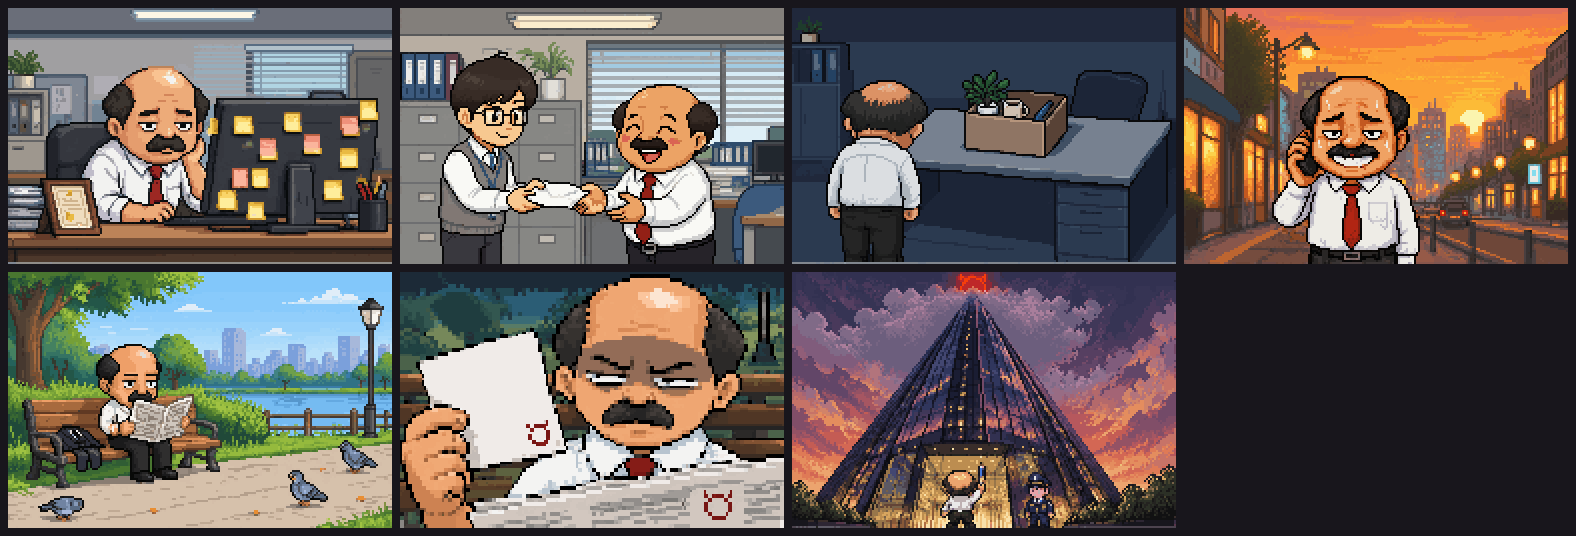
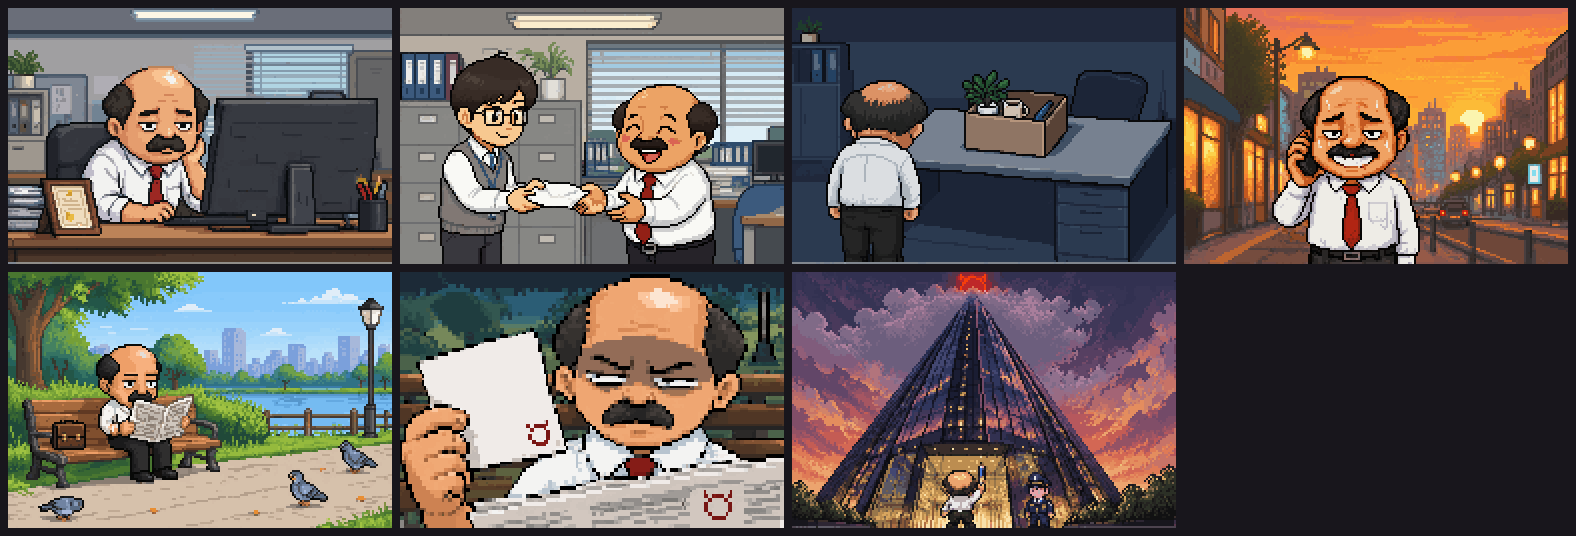
art: webtoon panels — prologue fixes, episodes 0.5 to 5 and the headhunter (approved)

Changed region(s): [[0.1244, 0.1791, 0.2487, 0.4179], [0.0311, 0.7761, 0.0622, 0.8955]]

diff --git a/art/README.md b/art/README.md
@@ -14,7 +14,7 @@ Scale up only by an integer factor with nearest-neighbour.
 | `park/old/` | The previous office-worker Park (68×68 frames, anchors, candidates, previews). Kept for reference only. `park/old/attack_v3/` is the earlier hand-built attack and `park/old/attack_v4/` the PixelLab attack that came before the current one. |
 | `park/preview/` | Composited previews and contact sheets (see Previews). |
 | `parts/suits/s{set}_{slot}.png` | 36 costume parts: 6 sets × 6 slots, each on a 64×64 transparent canvas drawn on idle frame 0. |
-| `parts/suits/strips/s{set}_{slot}_{anim}.png` | The same parts redrawn for every frame of idle, walk and attack (108 strips). **The 36 `_attack` strips still belong to an earlier attack and do not fit the current `park/attack_*` frames** (see Known issues). |
+| `parts/suits/strips/s{set}_{slot}_{anim}.png` | The same parts redrawn for every frame of idle, walk and attack (108 strips). The 36 `_attack` strips were redone for the current attack by inpainting each set onto the bare attack frames (see How it was made); the previous ones are in `parts/old_suits_v2/attack_v4_strips/`. |
 | `parts/suits/parts.json` | Slot, anchor, offset, layer, bbox and strip paths of every part. |
 | `park/fx/head_shine.png`, `park/fx/head_shine.json` | Animated glint on Park's bald crown (6 frames, 11×11 each). |
 | `parts/old_suits/` | The first office-suit parts. They fit only `park/old/` and are kept for reference. |
@@ -26,7 +26,7 @@ Scale up only by an integer factor with nearest-neighbour.
 | `icons/*.png` | UI icons, 32×32, plus 16×16 small icons named `*_s.png`. `icons/_sheet.png`, `_sheet_ui.png`, `_sheet_small.png` and `_sheet_aura_legend.png` are contact sheets. |
 | `vx/*.png` | 13 VX shop product images, 512×512 (128×128 pixel art scaled ×4 nearest-neighbour). The 128 px sources are in `vx/src/`, and `vx/_sheet.png` shows all of them. |
 | `icons/extra/`, `parts/gear/extra/` | Unused extras left over from generation. They can be deleted. |
-| `story/prologue_1..7.png` | The 7 webtoon prologue panels, 192×128, opaque, no text. `story/_sheet_prologue.png` shows them ×2 in reading order; `story/src/` holds the raw picks, unused alternates and the office-Park reference. See Story panels. |
+| `story/prologue_1..7.png`, `story/ep0_1..4.png`, `story/ep1_1..6.png`, `story/hunter_1..4.png`, `story/ep2_1..4.png`, `story/ep3_1..4.png`, `story/ep4_1..4.png`, `story/ep5_1..5.png` | Webtoon panels (prologue, episodes 0.5–5, headhunter), 192×128, opaque, no text. `story/_sheet_prologue.png`, `_sheet_ep0.png`, `_sheet_ep1.png`, `_sheet_hunter.png`, `_sheet_ep2.png`, `_sheet_ep3.png`, `_sheet_ep4.png` and `_sheet_ep5.png` show them ×2 in reading order; `story/src/` holds the raw picks, unused alternates and the character references. See Story panels. |
 
 ## Park
 
@@ -169,7 +169,8 @@ No image contains text.
   - `mixB` = helmet 2, armor 5, cape 6, gloves 3, boots 4, accessory 1, holding a laptop.
 - `park_strips_x3.png`: bare Park idle/walk/attack, then set 2 holding a pen.
 - `attack_bare_gear_x1.png` / `_x4.png`: the current attack, bare, with an item drawn on `hand` at `handAngle` (rows: pen, putter, keyboard, briefcase), following `gearAboveHelmet`.
-- `attack_s2_spritegen_registration_test_x4.png`: the set 2 registration test described in Known issues.
+- `attack_costumes_inpaint_x4.png` (1×: `attack_costumes_inpaint_x1.png`): the current attack with the new costume strips, one row per outfit: bare (pen), sets 1–6 fully worn (each holding a different item), then `mixA` (keyboard) and `mixB` (laptop). Items are drawn on `hand` at `handAngle` with `gearAboveHelmet` layering.
+- `attack_s2_spritegen_registration_test_x4.png`: the set 2 sprite-gen registration test (why the costume attack was inpainted instead; see Known issues).
 - Every other preview that shows attack frames (`anim_*`, `park_strips_x3.png`, `attack_bare_pen_*`, `hand_check_x4.png`) was made with an earlier attack and is out of date.
 - `attack_bare_pen_x1.png` / `_x4.png`: the 8-frame slash holding the pen. `hand_check_x4.png`: every idle/walk/attack frame with the pen and a red dot on `hand`, showing that it is always the same near hand.
 - `head_shine_x4.png`: the glint playing on bare Park's idle loop. `head_shine_strip_x8.png` shows the 6 shine cells.
@@ -192,11 +193,32 @@ No image contains text.
      - Boots and gloves are rebuilt on each frame's real legs and hands.
      - Capes hang from the back of the collar, sway in walk and attack, and are tucked under the body so there are no gaps.
   4. Accessories are small hand-placed pixel items on the chest or belt.
+  5. **Attack strips (current):** each set was inpainted onto the 8 bare attack frames with PixelLab Pro Flash. Pixel registration is exact: outside the mask every pixel is the bare frame's own pixel.
+     - **Mask:** the body dilated by 3 px, plus a band above the head (plumes, crowns) and a band behind the back (capes). The face (eye, nose, moustache, cheek) was left out of the mask, so it stays pixel-exact.
+     - **Reference:** the set's dressed idle frame 0 sat in the same image, in one cell of a 2×2 sheet with three attack frames (set 1: a 3×3 sheet with all eight).
+     - **Extra passes:** set 1 needed a second pass over the head only, because the first pass left the scalp bare. For set 2, frame 3 lost its raised arm and got one repair pass with the bare arm pasted back as a guide.
+     - **Slot split:** each dressed frame was diffed against the bare frame and assigned by region, as for idle:
+       - pixels above the neck → helmet;
+       - the fist plus 1 px → gloves;
+       - colours closest to the set's accessory palette on the chest or belt → accessory (grown into touching off-ramp colours);
+       - new pixels behind the back → cape;
+       - below y 49 → boots;
+       - everything else → armor.
+     - **Skipped pixels:** where both the bare and the dressed pixel are skin, nothing is stored, so Park's own face and hand show.
+     - **Gap fill:** where the dressed silhouette came out 1–3 px narrower than the bare body (mostly outline pixels at the belly, back and face edge), the gap was filled automatically from the neighbouring dressed pixels: the darkest neighbour on the silhouette edge, otherwise a light neighbour. This keeps bare pixels from showing through. It was done by script and was not hand-drawn.
 - **Office items, backgrounds and icons:** unchanged from the previous delivery, except for the new `scale` data and the scaled copies.
 
 ## Generation budget
 
+- **Office-object monster redo (PixelLab):** **40 generations**: 2 × 16-candidate `create_1_direction_object` batches at 64×64 (20 each). Another session drew webtoon panels on the same account at the same time, so the balance drop over that period is larger.
 - **Aura / legend icons, speech bubble, red dot (PixelLab):** **43 generations**: 2 × 64-candidate batches (20 each; 32 px icons, 24 px UI), 2 × Pixen 16×16 red dots and 1 × Pixen edit test that tried to add a glow to the helmet (rejected: it only added noise).
+- **Costume attack strips (PixelLab Pro Flash inpaint):**
+  - 22 calls in total:
+    - 2 at 192×192 (set 1, both passes);
+    - 18 at 128×128 (three per set for sets 2–6, plus three set 3 attempts that the content filter blocked);
+    - 1 repair at 128×64;
+    - 1 call rejected because its upload was truncated.
+  - The balance went from 388 to 146 during this work. That figure includes at least 8 jobs from another session sharing the account, so it overstates the cost. By call count, this work used roughly 160–200 generations.
 - **Attack remake, small icons, VX images:**
   - sprite-gen (Codex): 4 row generations (2 bare attack rows, 2 set 2 dressing tests).
   - PixelLab: the balance went from 512 to 388, so **124 generations** were used: 2 × 64-candidate icon batches (20 each) and 14 × Pro Flash 128×128 images (6 each, one of them a size test).
@@ -218,8 +240,12 @@ No image contains text.
 - Park's hands are tiny in idle and walk, so gloves read mostly in the attack frames.
 - The ranger hood (set 4) was drawn together with its cloak. Without the set 4 cape the hood still works, but its shoulder drape is gone.
 - The swinging arm is short (chibi proportions), so in the overhead frames the fist stays at head height. The item itself provides the overhead reach.
-- **Costume attack strips are out of date.** `parts/suits/strips/s*_*_attack.png` were fitted to an earlier attack. They do not line up with the current sprite-gen attack, so a worn costume looks wrong during the attack until they are remade.
-  - A test dressed set 2 with sprite-gen: the dressed idle-0 was the base and the bare attack row was attached as a motion reference. The poses follow closely, but the dressed figure comes out about 4 px taller and the limbs differ by 1–3 px. After the best shift, 8–30 bare-body pixels per frame still stick out from under the dressed silhouette. A slot split by diff against the bare frame therefore does not register. See `park/preview/attack_s2_spritegen_registration_test_x4.png` (top: bare, bottom: dressed).
+- Costume attack strips:
+  - **Why not sprite-gen:** a sprite-gen test dressed set 2 from its idle 0 with the bare attack row as a motion reference. The dressed figure came out about 4 px taller and its limbs were 1–3 px off, so a split by diff would not register (`park/preview/attack_s2_spritegen_registration_test_x4.png`). The strips were therefore made by inpainting instead.
+  - **Gap fill:** the inpainted silhouettes were sometimes narrower than the bare body. Per frame, 0–114 such pixels were filled automatically from neighbouring dressed pixels; most were single outline pixels. The worst frames are set 3 frame 2, set 5 frames 1 and 3, and set 4 frames 3 and 6, where the front outline is a little thicker.
+  - **Missing capes:** set 1 frame 1 has no cape, and in a few frames the cape is narrower than at idle.
+  - **Raised arms:** on frames 1–3 (raised arm) the armour sleeve sometimes covers less of the upper arm than at idle. The tan tunic sleeve then shows under the gauntlet; set 1 is sleeveless by design.
+  - **Accessories:** the slot was found by colour, so on some frames part of a lanyard, chain or mug is in the armor layer. If you mix outfits, the accessory can be incomplete on those frames.
 - Frame 1 of the attack (`anticipation`) turns the face slightly toward the viewer, so the eye reads a little wider than in idle.
 - Office items are drawn in a 24 px box. Use `scale` or `scaledFile` to keep bulky ones small.
 
@@ -260,6 +286,29 @@ No image contains text.
 - Previews (`monsters/preview/`):
   - `battle_{department}_x1.png` / `_x3.png`: Park next to each monster on its department background;
   - `anims_{department}_x2.png`: every idle, hurt and death frame.
+- `_sheet.png`: all 36 monsters on idle frame 0 at ×2, one row per department (normal and spare, then team leader, then executive).
+
+### Office-object redo (6 normal monsters)
+
+Six normal monsters did not read as office monsters, so they were redrawn with the office object as the first read. The ids and file names are unchanged. The old strips are kept in `monsters/old/`.
+
+| id | Name | Flying | Picture | Body (w×h) |
+|---|---|---|---|---|
+| `stapler_bat` | 스테이플러 박쥐 | yes | a black desk stapler whose open jaw has staple teeth, with purple bat wings | 41×32 |
+| `clip_rat` | 클립 쥐 | no | a grey rat whose body and tail are bent silver paperclip wire, with a big paperclip tail loop | 46×29 |
+| `phone_imp` | 전화 임프 | no | a red imp with a headset, clutching a huge beige desk-phone receiver, with a coiled beige phone-cord tail | 36×32 |
+| `card_pixie` | 명함 종이학 (renamed from 명함 요정) | yes | a paper crane folded from white business cards with grey print lines and blue logo corners | 41×32 |
+| `redtape_worm` | 레드테이프 웜 | no | a grey tape-dispenser head with cutter teeth and a tape roll, and a red tape body unrolling behind it | 46×29 |
+| `card_bat` | 법인카드 박쥐 | yes | a black bat whose wings are a gold card and a black card, with a gold chip on its belly | 46×27 |
+
+- **Generation:** PixelLab `create_1_direction_object` (sidescroller view), two batches of 16 candidates at 64×64, one per-item description each. The style references were `keyboard_mimic` and `calc_crab` idle frame 0. The best candidate of each was kept.
+- **Downscale:** the candidate was cropped, scaled ×4 nearest-neighbour, and reduced with the same kCentroid downscaler (`sprite-gen`) to its body size. Alpha was made binary, the colours were reduced to at most 26 (median cut), and the darkest colours were snapped to `#0C0B0A`. Each sprite sits centred on the 64×64 canvas with its feet on y 56, or on y 50 for flyers (`hoverPx` 6).
+- **Strips:** frame edits of that sprite, measured from the existing strips:
+  - idle: ground monsters are frame 0, 1 px wider and 1 px shorter, frame 0, then 1 px narrower and 1 px taller (bottom-anchored); flyers bob 0, −1, −2, −1 px.
+  - hurt: 75 % toward white with a 3 px recoil to the right, then a 35 % blend toward red (230, 38, 38) with a 1 px recoil. Outline pixels stay `#0C0B0A`.
+  - death: frame 0 is the sprite 85 % white, 2 px wider and squashed to 85 % height. Frame 1 is the sprite 55 % toward light grey, 110 % wide and 52 % high, with the same small puff and sparkles as the other monsters of that body width. Frames 2 and 3 are the shared big cloud and fading puffs of a monster of the same width, moved to the new body centre. The widths were chosen (36, 41, 46) so that these puffs exist at exactly that size.
+- `monsters.json`: only `name` (card_pixie), `bodyHeight`, `bodyWidth` and `hpBarAnchor` changed for these six; `flying`, `hoverPx` and the animation timings are as before.
+- `sticky_moth` stays in the files and in the 총무팀 previews, but it is not in 총무팀's `spareNormal`.
 
 ## UI icons (second batch, `icons/`)
 
@@ -344,11 +393,11 @@ All UI frames were generated with PixelLab (Pixen) at native size and cropped. `
 
   | File | Panel |
   |---|---|
-  | `prologue_1` | Park at his desk in 총무부: monitor covered in sticky notes, framed certificate, fluorescent glint on his head |
+  | `prologue_1` | Park at his desk in 총무부: the back of his monitor (plain, no notes), framed certificate, fluorescent glint on his head |
   | `prologue_2` | An HR employee in a vest and glasses hands Park a white envelope; Park laughs naively |
   | `prologue_3` | Night office: an empty desk with one box (plant, mug, pen); Park from behind, slumped |
   | `prologue_4` | Evening street at sunset: Park on the phone, sweating, forcing a smile |
-  | `prologue_5` | Park bench by a pond: Park reads the newspaper, his jacket folded beside him, pigeons |
+  | `prologue_5` | Park bench by a pond: Park reads the newspaper, a small brown briefcase beside him, pigeons |
   | `prologue_6` | Close-up: Park's hand holds the turned-over envelope; a small red horned-circle emblem on it matches the one on the newspaper; his eyes narrow |
   | `prologue_7` | A tower piercing the clouds with the red horned emblem on top; tiny Park from behind raises one pen at the entrance, a security guard beside him |
 
@@ -358,7 +407,108 @@ All UI frames were generated with PixelLab (Pixen) at native size and cropped. `
   3. Cleanup: near-identical colours (RGB distance ≤ 6) merged, and faint lone specks inside flat areas replaced by their surroundings (4 to 32 per panel). Nothing was redrawn. Panels keep 36–86 colours each; they share the reference's outline and skin and shirt colours, but each scene keeps its own lighting (office, night, sunset, day, dusk).
   4. Raw picks are `story/src/prologue_N_raw_*.png`. Unused alternates: `alt_p2a` (plain background), `alt_p6a` (face cropped above the eyes, no bald head), `alt_p7a` (squat tower that does not reach the clouds).
 - Credits: **70 generations** (1 × Pro Flash edit at 64×64 = 5, 10 × Pro Flash 192×128 = 6 each, 1 × Pro Flash 32×32 = 5 for the story icon). Panels 2, 6 and 7 were generated twice.
+- Fixes after review (PixelLab Pro Flash inpaint on a crop, masked pixels only; every other pixel is unchanged). The originals are `story/src/prologue_1_v1.png` and `prologue_5_v1.png`; the inpaint outputs are `story/src/prologue_*_fix_inpaint*.png`.
+  - `prologue_1`: the sticky notes were stuck on the back of the monitor. Two inpaints (96×76 crop over the notes, then a 40×64 crop over two leftovers) made it a plain dark monitor back. 1,434 pixels changed; 8 leftover yellow pixels (one speck and a small light on the base) were set to the neighbouring dark grey.
+  - `prologue_5`: the dark clothes pile on the bench read as pulled-off trousers. One inpaint (64×64 crop, 28×28 mask) replaced it with a small closed brown briefcase standing on the bench. 493 pixels changed.
 - Known issues: in `prologue_7` the emblem at the top of the tower is cut by the top edge, and the clouds there are busy, so text reads better at the bottom-left or over a dark box. In `prologue_3` Park is seen from behind with more side hair than usual. `prologue_6` is a larger close-up and looks coarser than the other panels.
+
+### Episode 0.5 (`ep0_*`)
+
+- "0.5화 — 월급만큼만 (3층)", 4 panels, same format. Setting: an early floor in the style of the 총무팀 office (grey filing cabinets, water cooler, boxes, checkered floor) with a faint purple dungeon glow at the edges.
+
+  | File | Panel |
+  |---|---|
+  | `ep0_1` | Park in a tense stance, sweating, aims his pen at a big 서류 슬라임 (crumpled documents, binder clip, angry face) |
+  | `ep0_2` | The slime sits at a desk staring at a small monitor with bored half-closed eyes; Park stands by, confused |
+  | `ep0_3` | Close-up: Park's arm (white sleeve) bonks the slime with his pen, with an impact star; the slime's flat face doesn't care, its eyes rolled up to the wall clock |
+  | `ep0_4` | Wide shot of the open-plan floor: paper slimes, a stapler bat and a clip rat each idle at their spot, zoned out; Park in the middle, deadpan |
+
+- Monster references: frame 0 of `monsters/paper_slime_idle.png` (and of `stapler_bat_idle.png` and `clip_rat_idle.png`, described in the prompt for `ep0_4`). The style image was `park_office_ref.png` next to the paper slime frame, cropped and reduced to 24 colours so the image stays small enough to send.
+- Cleanup as before (colours merged, 12–75 faint specks per panel). Nothing was redrawn. Raw picks: `story/src/ep0_N_raw_*.png`. Rejected for `ep0_3`: `alt_ep0_3_a` (both eyes squeezed shut, so the clock gag is lost) and `alt_ep0_3_b` (the slime's face and the hit are too small to read).
+- Credits: **36 generations** (6 Pro Flash panels at 192×128, 6 each; `ep0_3` was generated three times). Two calls were rejected before generating because the reference image was cut off in transit, so they cost nothing.
+- Known issues: `ep0_3` shows only Park's arm, not his face. The wall clock in `ep0_3` has tick marks but no hands. In `ep0_4` the stapler bat and the clip rat come from the prompt only, so they look a little different from their game sprites.
+
+### Episode 1 and the headhunter (`ep1_*`, `hunter_*`)
+
+- Episode "1화 — 상무님은 부재중 (100층)" (6 panels) and "1화 뒤 — 헤드헌터 (100층)" (4 panels), same format as the prologue.
+
+  | File | Panel |
+  |---|---|
+  | `ep1_1` | Floor 100 boss room (an executive office turned dungeon: wood panels, filing cabinets, green torches, purple runes); a huge shadow with red eyes looms over the desk; tiny Park from behind |
+  | `ep1_2` | Park trembles, sweat flying, and points his pen at the shadow falling across the room |
+  | `ep1_3` | Reveal: a flat cardboard standee of a stern grey-haired executive with a blank scribbled sign on a string; a lit phone on the floor behind it; Park stares, blank-faced |
+  | `ep1_4` | Park leaps in and smacks the standee with his pen: impact star, action lines, the standee folds back, the phone flies |
+  | `ep1_5` | Beside a photocopier in a cobwebbed corner, gaunt 김인턴 crawls out on all fours; Park looks down in surprise |
+  | `ep1_6` | 김인턴 with starry hopeful eyes and clasped hands; Park looks away with a sweat drop and a guilty smile (his name badge is blank) |
+  | `hunter_1` | Concrete stairwell landing: 헤드헌터 냥 (grey tabby in sunglasses and a navy suit) leans on the rail and holds out a blank business card; Park, from behind, stops on the stairs |
+  | `hunter_2` | Close-up: Park, jaw dropped, eyes bulging, an anger mark on his head, pointing at himself |
+  | `hunter_3` | The cat spreads a hand of exam tickets (cream cards, each with a red stamp, like `icons/ticket.png`) like playing cards; Park leans in |
+  | `hunter_4` | Park holds a few tickets and studies them with a deadly serious frown |
+
+- Character references (64×64, transparent, in `story/src/`), made first so they can be reused in later episodes:
+  - `ref_kim_intern.png`: 김인턴, gaunt, messy black hair, eye bags, wrinkled light blue shirt, lanyard ID (Pro Flash with `park_office_ref.png` as the style image).
+  - `ref_headhunter_cat.png`: 헤드헌터 냥, grey tabby standing upright, black sunglasses, navy suit, white shirt, thin black tie (Pro Flash, same style image).
+  - `ref_executive_standee.png`: the stern grey-haired executive on the standee (Pixen, 1 generation). It is a plain figure, not a cardboard cutout; the panels draw the cutout from the prompt.
+- Panels with two characters used a composite style image: `park_office_ref.png` placed next to the other reference (and `icons/ticket.png` for `hunter_3` and `hunter_4`), labelled "left: Park, right: …". Single-Park panels used the Park reference alone.
+- Cleanup as for the prologue (colours merged, 13–47 faint specks per panel). In `hunter_1` the green emergency sign had letter-like white marks; those 46 pixels were painted the sign's green. Nothing else was redrawn.
+- Raw picks: `story/src/{ep1,hunter}_N_raw_*.png`. Rejected: `alt_ep1_2a` (Park in a jacket, and a horned demon sat at the desk, which spoils the cardboard reveal) and `alt_hunter_3a` (the tickets read as a paper hand fan).
+- Credits: **98 generations** in this batch: 3 references (5 + 5 + 1), 12 Pro Flash panels at 192×128 (6 each; `ep1_2` and `hunter_3` were generated twice) and 3 Pro Flash inpaints for the prologue fixes (5 each).
+- Known issues: `ep1_6` is lit like a plain beige office rather than the dark dungeon room, so it differs from `ep1_1`–`ep1_5`. In `ep1_1` and `hunter_1` Park is small and seen from behind. In `ep1_3` Park is cut by the left edge.
+
+### Episodes 2 and 3 (`ep2_*`, `ep3_*`)
+
+- "2화 — 네트워크 마케팅 아닙니다 (300층)" and "3화 — 내용증명 (600층)", 4 panels each, same format as the prologue. `story/_sheet_ep2.png` and `_sheet_ep3.png` show them ×2 in reading order (same layout as `_sheet_prologue.png`).
+
+  | File | Panel |
+  |---|---|
+  | `ep2_1` | 영업팀 floor (desks, rising bar-chart posters): Park in front of a glowing gear vending machine (giant stapler, pen, mug), his face and head drained pale blue-white, jaw dropped |
+  | `ep2_2` | Park, arms crossed and unimpressed, as 박주임 bursts in with a big sparkling showman pose |
+  | `ep2_3` | Close-up: 박주임 grins and waves a fan of green banknotes, bills fluttering, his gold watch glinting |
+  | `ep2_4` | Park and 박주임 arm in arm, grinning, 박주임 giving a thumbs up; 김인턴 peeks from behind a partition with narrowed, suspicious eyes |
+  | `ep3_1` | Floor 600 courtroom (judge's bench, candles, purple gloom): the 법무 상무 lich in wig and robe leans over the bench with its gavel; small Park at the bottom left, sweating, gripping his pen |
+  | `ep3_2` | A sheet of paper slaps flat onto the lich's face; motion lines, the gavel flies up, the lich flails (the sheet has only grey scribble lines) |
+  | `ep3_3` | Close-up: 최대리 pushes up her glasses (white glint hides her eyes), a folder and a fan of papers in her other arm, papers drifting |
+  | `ep3_4` | Paper blades shred the lich and the red health bar above it; in front, Park with starry eyes and clasped hands, 최대리 cool with arms folded and eyes closed |
+
+- New character references (64×64, transparent, binary alpha, in `story/src/`), for later episodes:
+  - `ref_park_jumim.png`: 박주임, gelled swept-back black hair, big grin, shiny grey suit, dark tie, gold watch, a fan of green banknotes (Pro Flash, `park_office_ref.png` as the style image).
+  - `ref_choi_daeri.png`: 최대리, black chin-length bob, rectangular glasses, navy blazer and skirt, white blouse, a dark blue folder at her chest. Pro Flash with the same style image, then one Pro Flash text edit to add the folder (the first try had none; a second fresh try had the folder but a muddier face).
+  - The lich has no separate reference: the panels used `monsters/judge_lich_idle.png` frame 0 (80×80).
+- Style images: the same composite approach as episode 1. Each reference was cropped to its bounding box and placed side by side, bottom-aligned, 4 px apart: Park + 박주임 (`ep2_2`), Park + 박주임 + 김인턴 (`ep2_4`), Park + lich (`ep3_1`), Park + 최대리 + lich (`ep3_4`). Single-character panels used that character's reference alone. Prompts repeat the same description of Park.
+- Two panels were fixed with a Pro Flash text edit of the whole 192×128 panel:
+  - `ep2_1`: the first roll had Park shocked but not pale, and a plain white strip across the top. The edit made his face pale and continued the ceiling. A second fresh roll (`src/alt_ep2_1b.png`) was paler but showed "$$$" on the price display and lost Park's tie.
+  - `ep2_4`: 김인턴 looked neutral; the edit gave him the suspicious squint.
+- Cleanup as for the prologue (colours merged at RGB distance ≤ 6, 0–36 faint specks per panel; 29–79 colours per panel). `ep3_2` and `ep3_4` came back with a flat grey bottom row (a grid-recovery artefact), which was replaced by a copy of the row above. Nothing was redrawn.
+- Raw picks: `story/src/{ep2,ep3}_N_raw_*.png`. Rejected: `alt_ep2_1b` (see above) and `alt_ep3_4a` (Park and 최대리 tiny at the left, expressions hard to read).
+- Credits: **92 generations**: 박주임 reference 5; 최대리 reference 15 (2 Pro Flash 64×64 creates and 1 edit, 5 each); 10 Pro Flash panels at 192×128 (6 each; `ep2_1` and `ep3_4` rolled twice); 2 Pro Flash edits at 192×128 (6 each).
+- Known issues: `ep3_3` is a large close-up with longer, less chibi proportions than the 최대리 reference, like `prologue_6`. In `ep3_1` Park is small and cut by the bottom edge. In `ep3_4` the lich is half hidden by the paper storm and reads mainly by its wig. The mug in `ep2_1` has a small blue logo mark (no letters).
+
+### Episodes 4 and 5 (`ep4_*`, `ep5_*`)
+
+- "4화 — 구독과 좋아요 (900층)" (4 panels) and "5화 — 김팀장 (1000층, 근속 25년 금배지)" (5 panels), same format as the prologue. `story/_sheet_ep4.png` shows episode 4 ×2 in one row (like `_sheet_ep2.png`); `_sheet_ep5.png` shows episode 5 ×2 in rows of three (like `_sheet_ep1.png`).
+
+  | File | Panel |
+  |---|---|
+  | `ep4_1` | Dungeon floor with torches and broken cubicles: Park punches a purple slime (impact star) while a selfie stick with a phone pokes in from the top right; Park glances at it, startled |
+  | `ep4_2` | 공주임 intro: winking idol pose, peace sign, selfie stick up, in front of a pink burst with stars and sparkles |
+  | `ep4_3` | Park, eyes squeezed shut and crying out, waves both hands at the camera, sweat drops and motion lines; the phone on its stick in the right foreground |
+  | `ep4_4` | Close-up of a phone held sideways by two hands in pink sleeves: on screen, a blushing Park with three buff icons above his head (red sword, blue shield, green up arrow) and a column of blank comment bubbles, each with only a small heart; hearts and sparkles float out of the screen |
+  | `ep5_1` | Floor 1000 boss room (red torches, banners with a horned emblem): a mountain of approval papers, folders and binders, sheets flying; on top, the boss with grey hair from behind; tiny Park from behind at the bottom left |
+  | `ep5_2` | Reveal on the paper piles: 김팀장 in his brown suit, glasses, pauldron, bracers and blank badge stands calm and weary; Park recoils, shocked |
+  | `ep5_3` | After the fight, papers all over the floor: 김팀장 sits on the floor, hair messed up, and holds out the small round gold pin on his palm; Park kneels and reaches for it |
+  | `ep5_4` | Chest-up Park, stern, the gold pin in his fist at his chest; 김팀장 sits at the right edge, looking away |
+  | `ep5_5` | From behind, Park and 김팀장 (hand on Park's shoulder) at the foot of a zigzag stone staircase that climbs into darkness, a few torches along it |
+
+- New character references (64×64, transparent, binary alpha, in `story/src/`), for later episodes:
+  - `ref_gong_jumim.png`: 공주임, long dark brown hair with a pink ribbon clip, bright open smile, pastel pink cardigan over a white blouse, grey skirt, blue ID lanyard, a selfie stick with a black phone.
+  - `ref_kim_teamjang.png`: 김팀장 as the floor 1000 boss, grey slicked-back hair, heavy jowls, black-framed glasses, rumpled brown suit and dark tie, a dull iron pauldron on one shoulder and iron bracers, a blank contract-worker ID badge on the chest pocket.
+  - Both are Pro Flash 64×64 with `park_office_ref.png` as the style image (proportions, outline and shading only). Each was rolled twice and the clearer one kept.
+  - The 금배지 has no separate reference: it is a small round gold pin with no letters in `ep5_3` and `ep5_4`.
+- Style images: Park's reference and the new character's reference side by side in one 128×64 image, labelled "left: Park, right: 공주임" or "right: 김팀장". Episode 4 used Park + 공주임 and episode 5 used Park + 김팀장 for every panel. Prompts repeat the same description of Park.
+- Cleanup as for the prologue (colours merged at RGB distance ≤ 6, 9–38 faint specks per panel; 89 in `ep4_3`, all in the carpet noise; 28–84 colours per panel). `ep5_3` and `ep5_4` came back with a flat light bottom row (the grid-recovery artefact), which was replaced by a copy of the row above. Nothing was redrawn.
+- Raw picks: `story/src/{ep4,ep5}_N_raw_*.png`. Rejected rolls were not kept: one `ep4_1` with no characters at all and one with Park running from the slime; three `ep4_4` with Park and the buff icons but no phone.
+- Credits: **110 generations**: 4 Pro Flash 64×64 references (5 each) and 15 Pro Flash panels at 192×128 (6 each; `ep4_1` was rolled 3 times and `ep4_4` 5 times; the other panels once).
+- Known issues: in `ep5_1` and `ep5_5` Park is seen from behind, and in `ep5_1` he is small and tinted red by the torchlight. `ep5_3`, `ep5_4` and `ep5_5` have a flat dark band across the top (asked for as caption space), and `ep4_4` a nearly flat one. `ep5_4` is a larger close-up of Park, so it looks coarser, like `prologue_6`. In `ep5_3` 김팀장's hair is messier than in his reference (after the fight).
 
 ## Story icon (`icons/story.png`)
 
